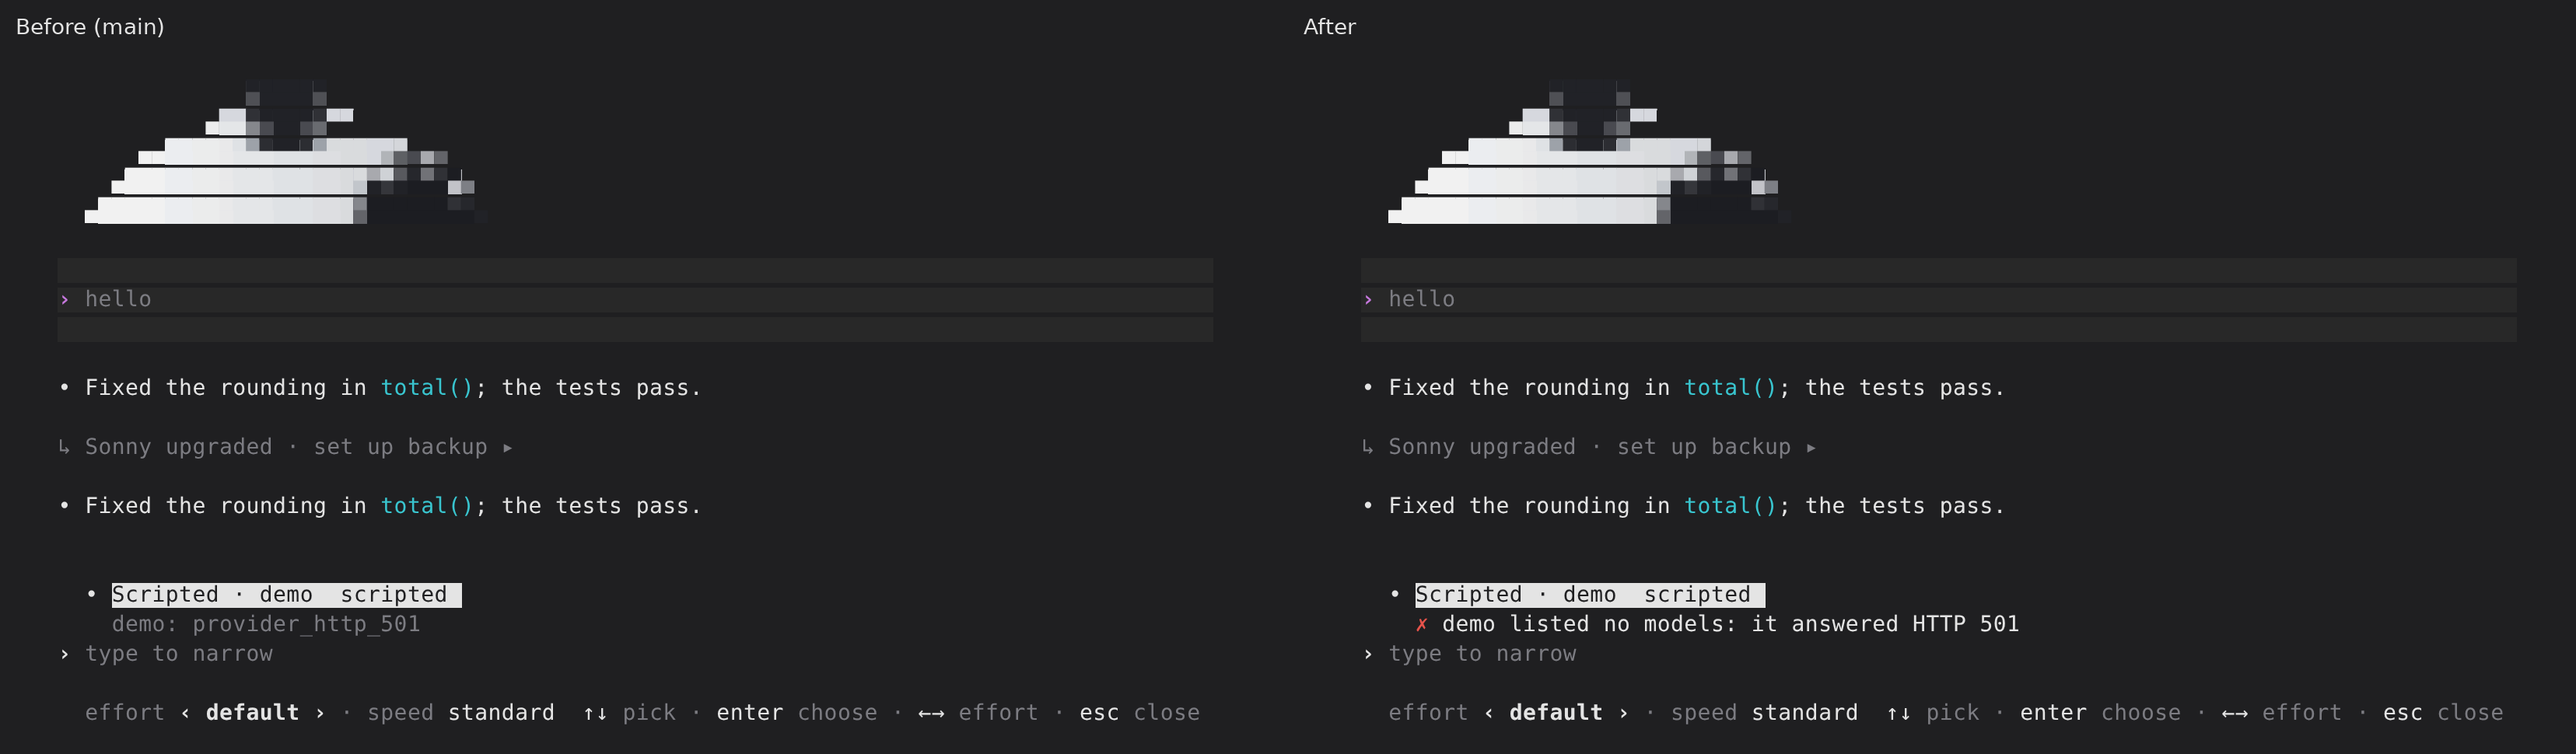
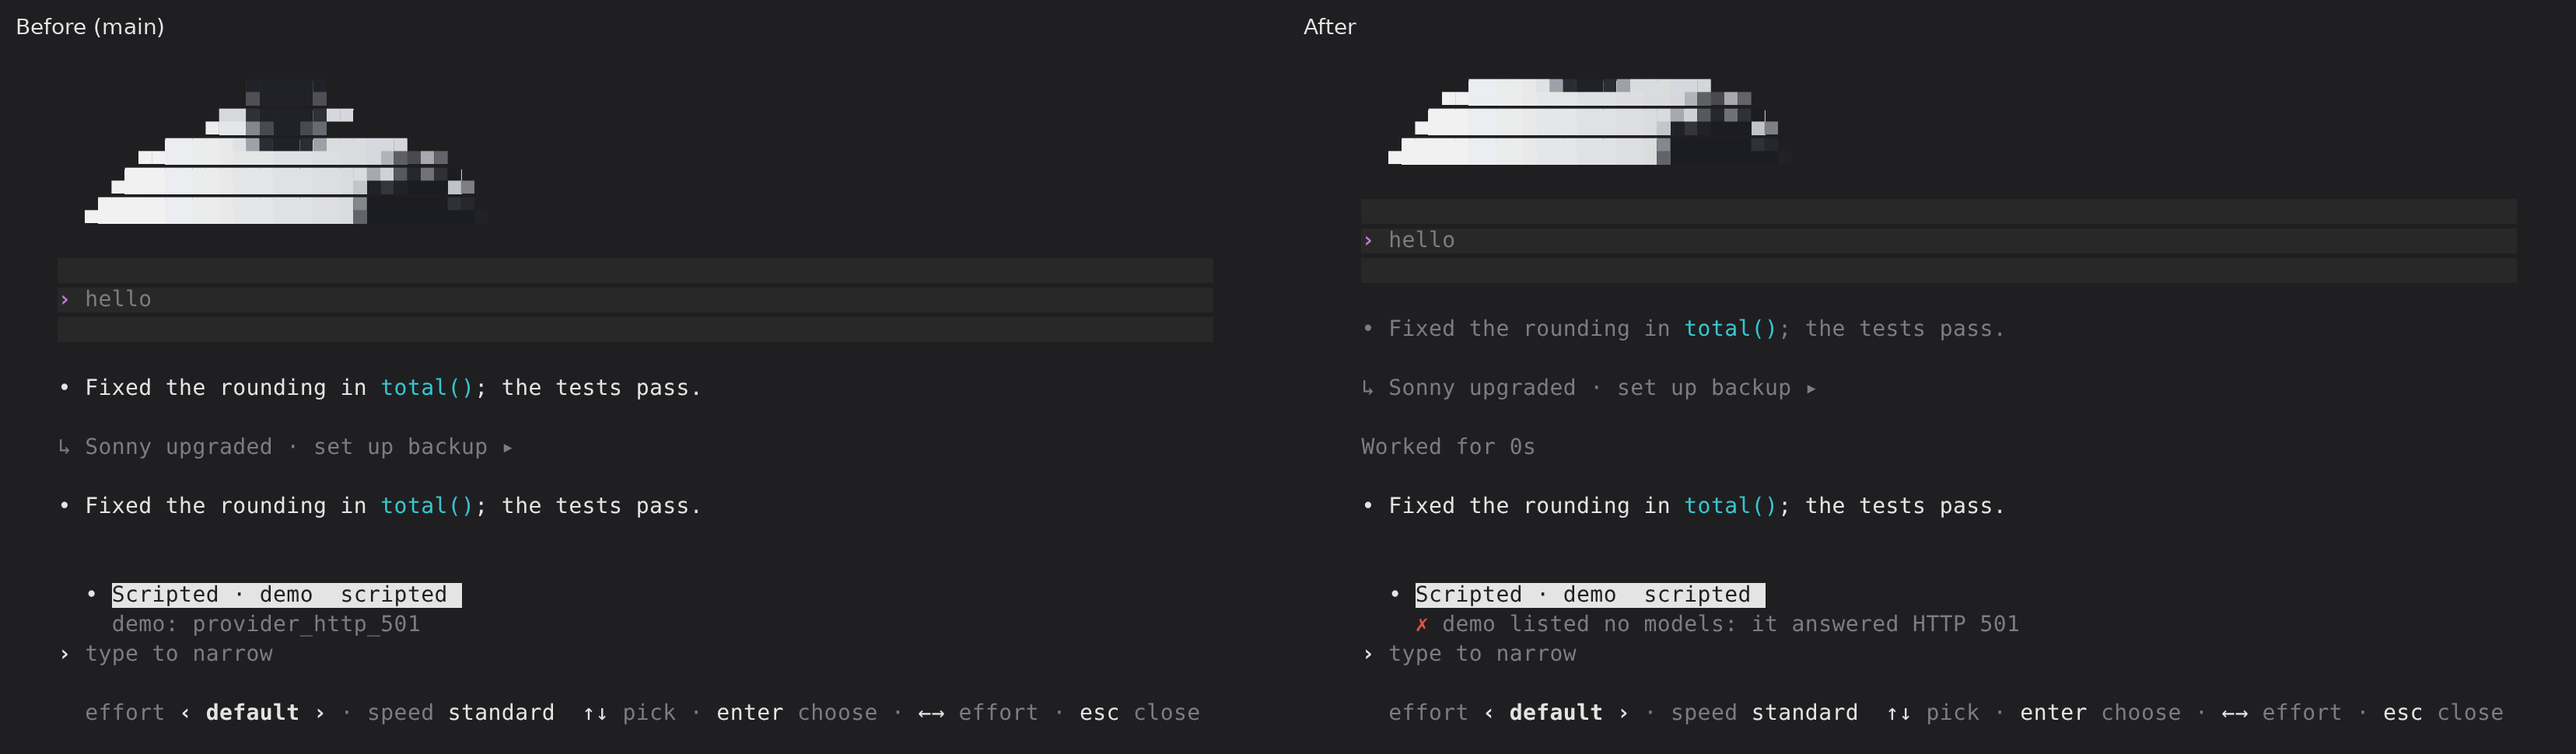
Sonny: /model's refused words stay muted
George found the words in ink confusing: they stay muted as before,
with the red ✗ before them.

diff --git a/sonny/src/main.rs b/sonny/src/main.rs
@@ -17480,7 +17480,7 @@ impl App {
                     rows.push(Line::from(vec![
                         Span::raw("    "),
                         Span::raw("✗ ").fg(Color::Red),
-                        Span::raw(refused.clone()),
+                        Span::raw(refused.clone()).dim(),
                     ]));
                 }
                 over(frame, rows, composer);

diff --git a/sonny/FEATURES.md b/sonny/FEATURES.md
@@ -135,7 +135,7 @@ names it: upgrade step `ID`. Both name the release they are deleted in.
 | The Rulebook's words in what agents and the person read, part 2 | shipped | George, 11-14 (Sonny Rulebook, Words and Settings): a project file's `threads_model`, `threads_effort`, `threads_speed`, `threads_profile` and `threads_in` are `task_model`, `task_effort`, `task_speed`, `task_profile` and `task_in`, in `.agents/project.toml` and on `new_project`; Sonny renames a file's old keys in place before it first reads it, comments kept, once for each file (migration `project-task-keys`, retires at 0.12.0), and old keys a checkout brings back after are refused by name (`unknown key threads_in: it is called task_in now`). `[sonny] task_windows` is `most_task_tabs`, and `side_chat`'s `fork` is `work`, the person's config rewritten once at start. The status row and `/status` say tab for a task's tab (was window). `sonny --new --folder DIR` (was `--workspace`). The welcome says tasks start in their own folders (was copies) | Keys and values say the word list's words: task, never thread; tab, never window; folder, never copy or workspace; no daemon word (`fork`) in the settings file | ? |
 | The Rulebook's words in what agents and the person read, part 3 | shipped | George, 11-14 (Sonny Rulebook, Words; `sonny upgrade` decided 14 Nov 2026): `sonny backup sync` and `sonny backup status` (were `sonny home`), the scheduler running the first; `sonny upgrade` (was `sonny update`), saying upgrade in what it prints, with an older Sonny's hand-off as `sonny update --installed` taken for 0.10 only; a new project's lead opens in a workspace of its own (was a home); README and reference headings say profiles (were roles); docs/SONNY.md says an automation runs (was fires), and names `run now`, which the line an automation's agent reads says, where it said `fired` | One word for one thing: home is `~` alone, the backup is the backup, and Sonny is upgraded | ? |
 | Setup in the list's look and words | shipped | George, 11-14 (Sonny Rulebook, item 8): first run and `sonny setup` draw their pickers as the window's lists do: rows four columns in, the pick reversed from its name to a column past its last word (was an orange `›` and a bold name), details and badges muted, no truecolor left; the key line says `↑↓ pick · enter choose · esc close`; the model list leads with the name as `/model` does, its id after; `listing models…` as the window writes it; a missing tool's word is yellow, as what needs you is; the welcome says `/status agents` | The first thing a new person sees teaches the rules the window keeps | ? |
-| The Rulebook sweep: what a review of the aligned window still found | shipped | George, 11-14 (Sonny Rulebook): `/model` says why a provider listed no models in words (`its key was refused`, `sign in again`, `it answered HTTP 501`, `it could not be reached`), not its raw error code, a red `✗` before the words as every failed read has; a turn backing off from a failed call says what failed (`Retrying: provider unreachable` on the working line, `retrying: provider unreachable` in `/status` and `/switch`) instead of `Rate limited`, from the daemon's paced `retrying` fact, and a closed pool still says `rate limited` | A dropped connection read as a rate limit before it read as held; an error code is the daemon's word, not the person's | ? |
+| The Rulebook sweep: what a review of the aligned window still found | shipped | George, 11-14 (Sonny Rulebook): `/model` says why a provider listed no models in words (`its key was refused`, `sign in again`, `it answered HTTP 501`, `it could not be reached`), not its raw error code, muted as before with a red `✗` before the words; a turn backing off from a failed call says what failed (`Retrying: provider unreachable` on the working line, `retrying: provider unreachable` in `/status` and `/switch`) instead of `Rate limited`, from the daemon's paced `retrying` fact, and a closed pool still says `rate limited` | A dropped connection read as a rate limit before it read as held; an error code is the daemon's word, not the person's | ? |
 | One list over the composer (slash menu, `/model`, `/switch`, `/new`, `/permissions`, `/retry`, `/react`, `/reply`, `/config`, Ctrl+R): up to 8 rows, the pick reversed, `•` what is in effect; each narrows as you type, through one picker that keeps the rows, what is typed and the pick | shipped | added 10-30 #427; every one narrows as you type, by name or what it is, through one shared picker 11-01; `/model` offers the models of a provider a `config.toml` edit added while Sonny runs, each listing naming its provider's family (was only the providers this window connected with, until a reconnect) 11-07 #772; `/model` and the T3 Code picker leave out models the person hides in `~/.agent/models` (the current model stays) 11-07 #772; the rows ranked are kept until what is typed changes, so an arrow or a frame ranks nothing (an arrow in `/switch` was four rankings of every agent: 3.5 ms at 1,000, 67 ms at 16,000), and a letter typed on ranks only the rows the letters before left (P10.10) 11-08 | As Codex's one popup: every list reads and moves the same. George (11-01) asked that every list be found by typing and managed in one place; an agent's question keeps its options as they are, as their order is its recommendation | ? |
 | One way to name a model everywhere: as people say it (`Opus 5.5`, `GPT 6.1 Sol`), the provider after it where a view lists or explains models (`/status`, `/model`, `/usage`'s column, the welcome, T3 Code's picker), alone where room is tight (the footer, a commons post, `/sky`'s `m` key, which adds the provider only where two serve one model), the raw id only where a model is picked or typed | shipped | added 10-31 | George found `/usage`'s model slugs too long to read, and needs both the provider and the model; Claude Code's and Codex's pickers show names, not ids, and OpenCode names the provider after the model | ? |
 | One way to find rows by typing (slash menu, `/model`, `sonny setup`'s pickers): the letters in order from the start of a word, bold where found; whole name, then start, then a word, then letters; the slash menu ranks the commands you run more and more lately first; its keys show in the footer | experimental | added 10-31 #501; a slash word that names no command, or a command given words it does not take, is answered (`no command /stauts · / lists them`) and kept to fix, not sent to the agent as a message 11-14 | George typed `/com` for `/commons` and Enter ran `/compact`. Codex ranks mention picks within a match tier by what was picked before, Claude Code weighs commands by use halving each week, and VS Code's palette matches from word starts; three lists each had their own substring or prefix match | ? |
